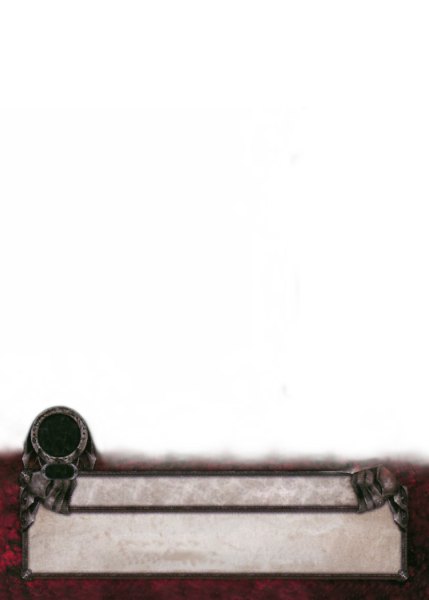
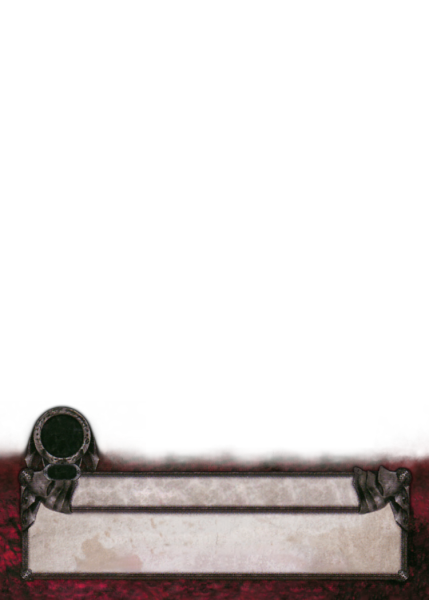
Update NoStat template

diff --git a/lotr.py b/lotr.py
@@ -311,16 +311,16 @@ CARD_TYPES_NO_FLAGS_BACK = {
                  'IgnoreRules': {'Full Art Landscape', 'Full Art Portrait'},
     'NoArtist': {'Campaign', 'Nightmare', 'Presentation', 'Rules'},
     'NoCopyright': {'Campaign', 'Nightmare', 'Presentation', 'Rules'}}
-CARD_SPHERES_NO_FLAGS = {'BlueRing': {'Cave', 'Region'},
-                         'GreenRing': {'Cave', 'Region'},
-                         'RedRing': {'Cave', 'Region'}}
+CARD_SPHERES_NO_FLAGS = {'BlueRing': {'Cave', 'NoStat', 'Region'},
+                         'GreenRing': {'Cave', 'NoStat', 'Region'},
+                         'RedRing': {'Cave', 'NoStat', 'Region'}}
 CARD_TYPES_NO_ARTIST = {'Presentation', 'Rules'}
 CARD_TYPES_NO_ARTIST_BACK = {'Campaign', 'Nightmare', 'Presentation', 'Rules'}
 CARD_TYPES_NO_ARTWORK = {'Rules'}
 CARD_TYPES_NO_ARTWORK_BACK = {'Campaign', 'Nightmare', 'Presentation', 'Rules'}
 CARD_TYPES_EASY_MODE = {'Encounter Side Quest', 'Enemy', 'Location',
                         'Ship Enemy', 'Treachery'}
-CARD_SPHERES_NO_EASY_MODE = {'Boon', 'Burden', 'Cave', 'Region'}
+CARD_SPHERES_NO_EASY_MODE = {'Boon', 'Burden', 'Cave', 'NoStat', 'Region'}
 CARD_TYPES_ADDITIONAL_ENCOUNTER_SETS = {'Quest'}
 CARD_TYPES_ADVENTURE = {'Campaign', 'Objective', 'Objective Ally',
                         'Objective Hero', 'Objective Location',
